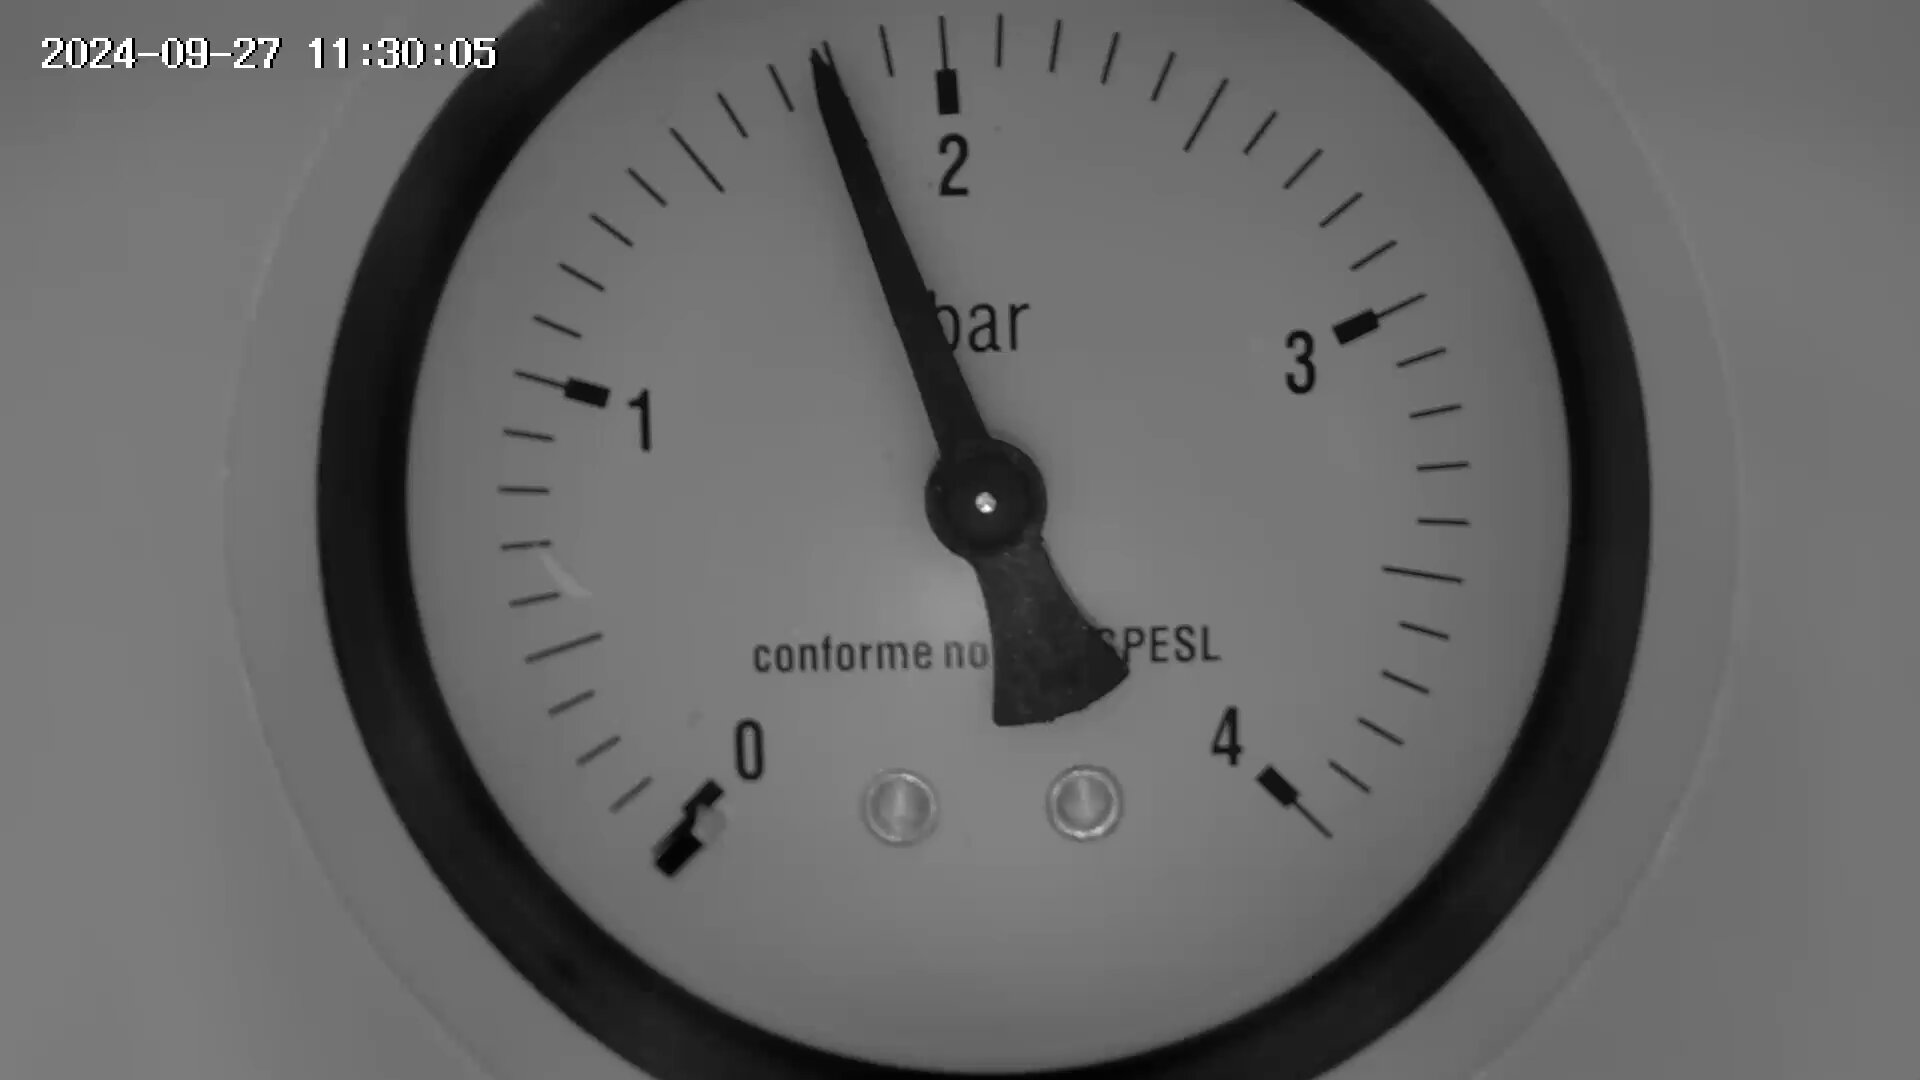
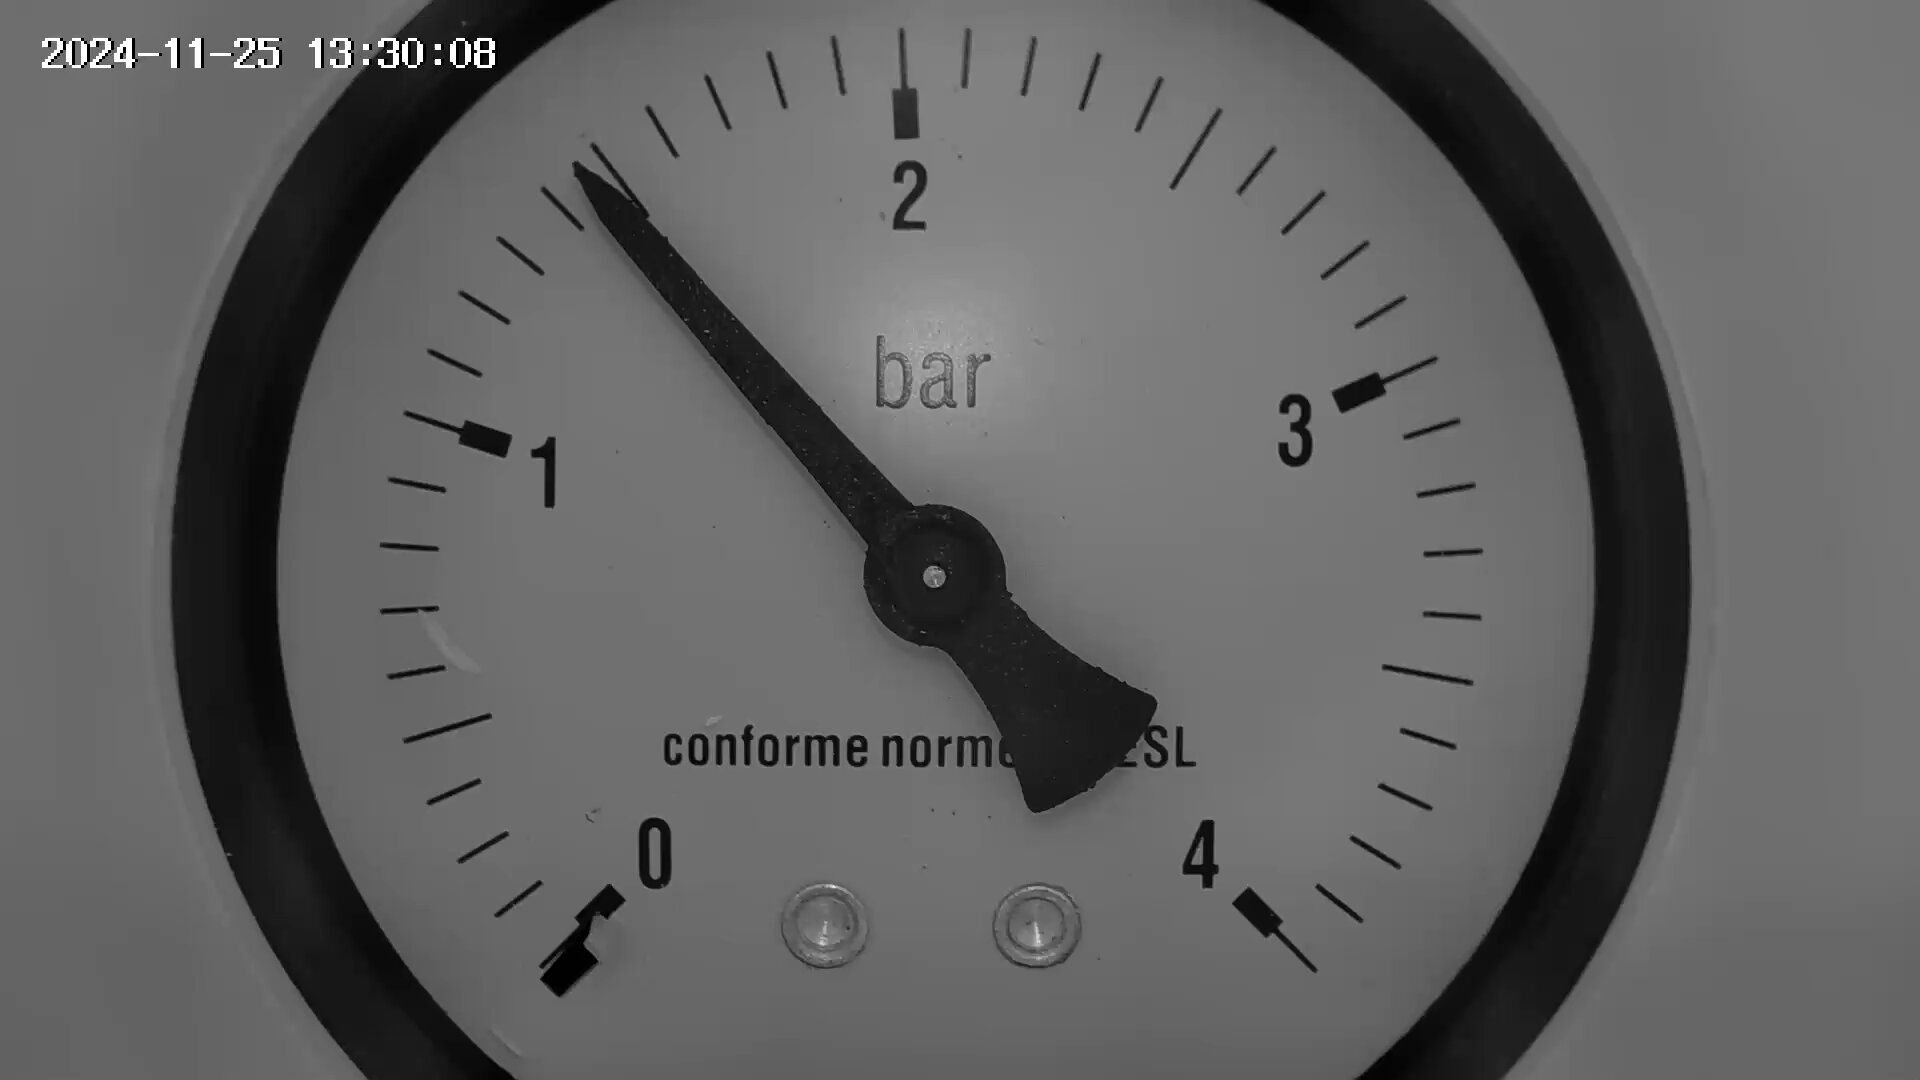
Update README

diff --git a/README.md b/README.md
@@ -71,18 +71,18 @@ The original camera snapshot:
 ![gauge.png](docs/gauge.png)
 
 ```sh
-$ python3.12 run.py --debug images/gauge.png
+/usr/bin/python3.12 /data1/Projects/SmartHome/pressure_reader/git/run.py --debug --save-debug-image images/gauge.png 
+INFO: Reading mode
+INFO: Gauge Reader v3.0.0-3-g6014b46
 INFO: Processing images/gauge.png
-INFO: Gauge Reader 2.0.2-2-gf03f15d
-DEBUG: Median of box areas is 531.92
 DEBUG: Average angle between marks: 6.92
-DEBUG: Added a zero mark at angle 43.19745304001033
-DEBUG: Added a missing mark at angle 160.93
-DEBUG: measured needle angle: 110.908380°
-DEBUG: needle angle: absolute 110.908380°, relative 115.894167°
-DEBUG: calculated value: 1.7737
+DEBUG: Added a zero mark at angle 45.32169632249996
+DEBUG: Added a missing mark at angle 141.72
+DEBUG: Measured needle angle: 130.770094° (cartesian)
+DEBUG: needle angle: absolute 130.770094°, relative 93.908209°
+DEBUG: calculated value: 1.4640
 DEBUG: Debug image saved as "images/gauge-debug.png"
-INFO: value: 1.77
+INFO: value: 1.46
 ```
 
 The image with some debugging drawings:
